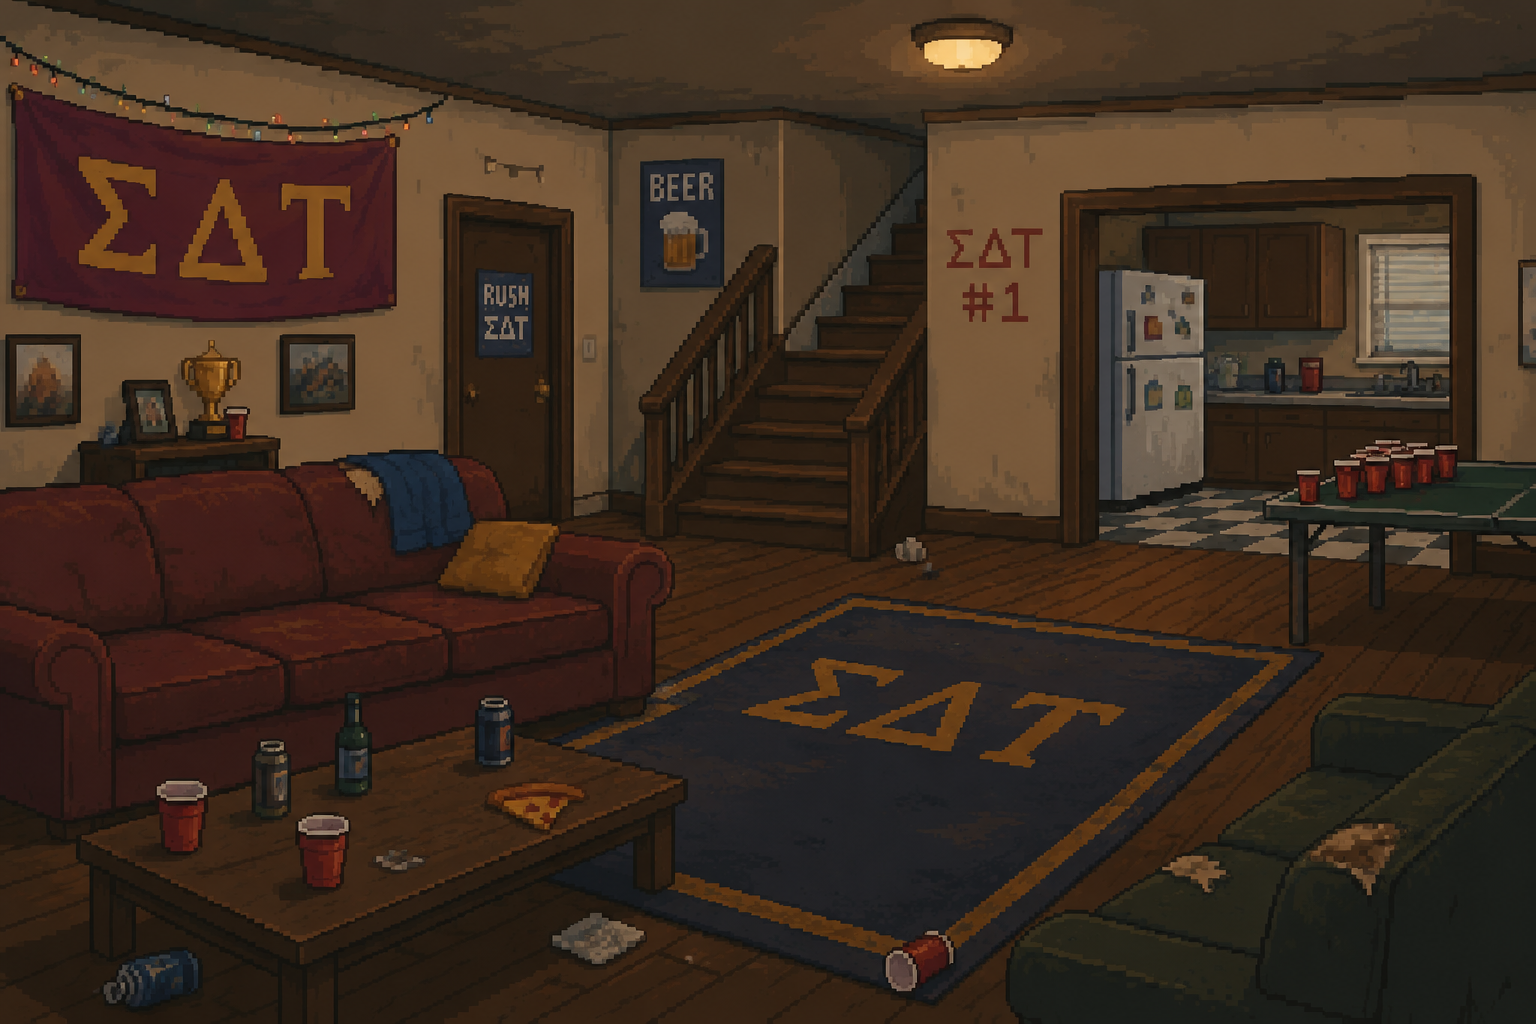
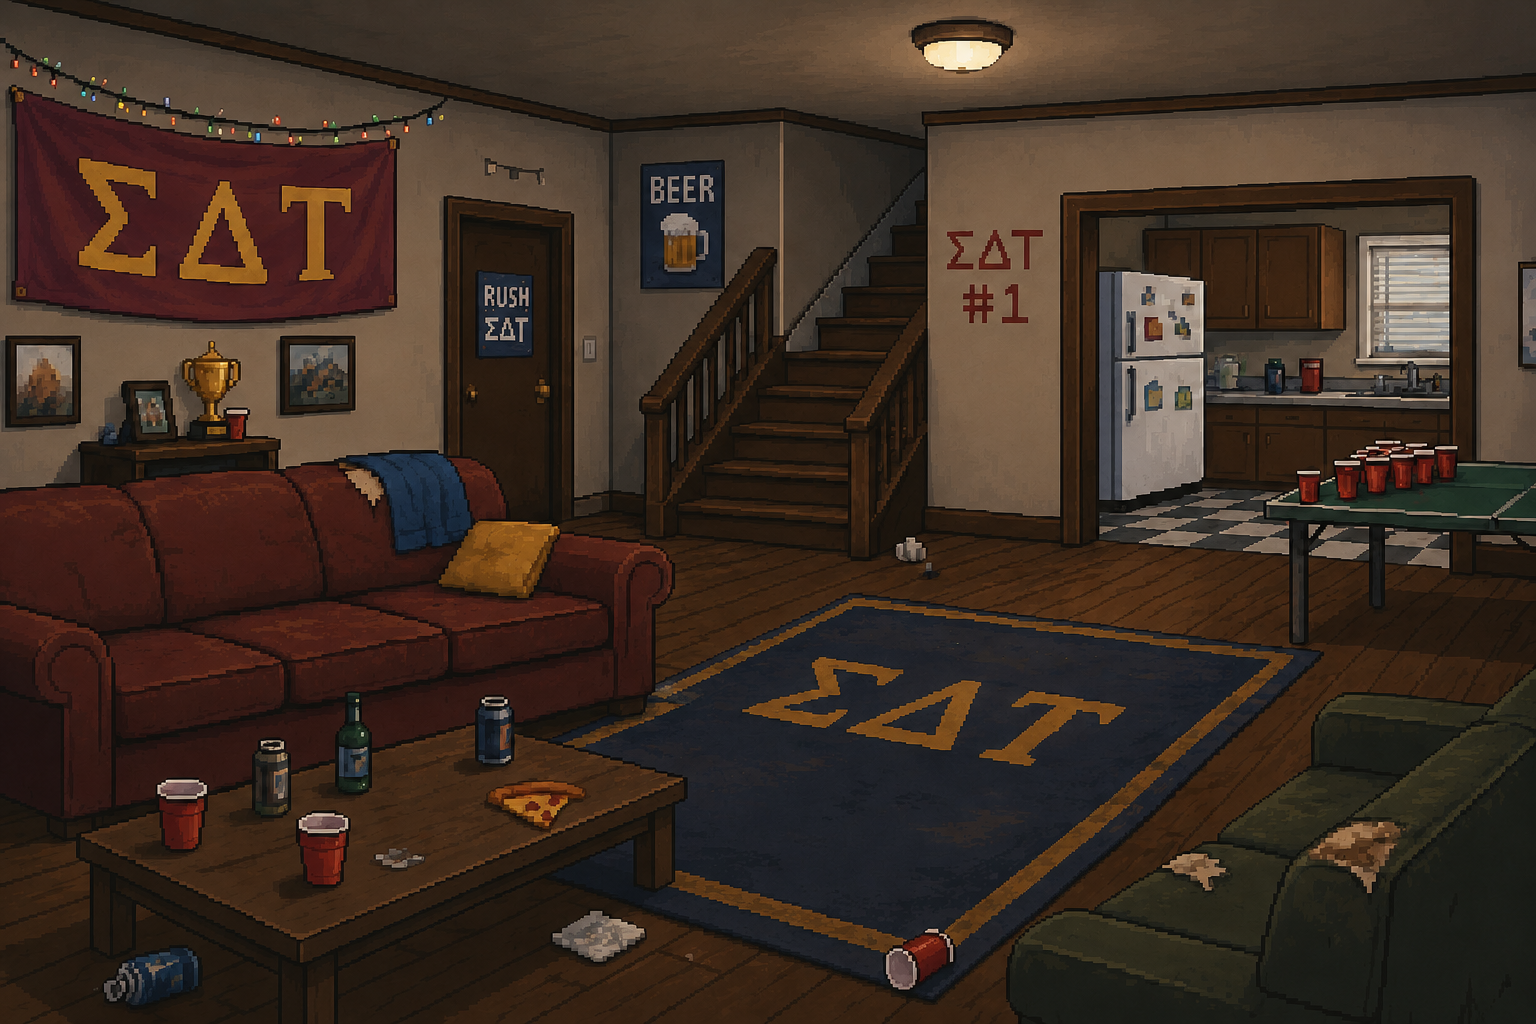
added item selection

diff --git a/game.java b/game.java
@@ -10,15 +10,19 @@ import java.awt.image.BufferedImage;
 import javax.swing.JPanel;
 import javax.imageio.ImageIO;
 import java.io.File;
+import java.util.Vector;
 
 public class game extends JPanel implements MouseListener, KeyListener {
+    static Items dialog;
     private Image image;
     static int anime = 0;
     static double anime_help = 0;
     static boolean fecha = false;
     static boolean hitting = false;
     static int add = 0;
-    private BufferedImage offscreen, sheet;
+    private BufferedImage offscreen;
+    public BufferedImage sheet;
+
     private Graphics2D offscreenG;
     static JFrame frame;
     static int x_cool_sqr, y_cool_sqr;
@@ -26,9 +30,10 @@ public class game extends JPanel implements MouseListener, KeyListener {
     static buffSystem buffSys;
     int sprite_col = 16, sprite_lin = 16;
     int option = 0;
+    public Vector<coisa> list = new Vector<coisa>();
 
     enum GameModes {
-        PLAY, SHOOT, EDIT, SETPOSITION;
+        PLAY, SHOOT, EDIT, SETPOSITION, ITEM_PANEL;
     }
 
     static final double gravity = 0.5;
@@ -46,9 +51,11 @@ public class game extends JPanel implements MouseListener, KeyListener {
 
     public game(String imagePath) {
         try {
-            sheet = ImageIO.read(new File("spritesheet/New Piskel(2).png"));
+            sheet = ImageIO.read(new File("spritesheet/New Piskel(2)(1).png"));
+            System.out.println("sheet loaded: " + sheet); // ✅ null or not?
         } catch (Exception e) {
             e.printStackTrace();
+            System.out.println("sheet FAILED to load"); // ❌ path wrong?
         }
         image = new ImageIcon(imagePath).getImage();
         addMouseListener(this);
@@ -67,8 +74,8 @@ public class game extends JPanel implements MouseListener, KeyListener {
 
             }
         }
-        lvl_map.add(new coisa(400, 300, 40, 0));
-        lvl_map.add(new coisa(700, 600, 40, 1));
+        // lvl_map.add(new coisa(400, 300, 40, 0));
+        // lvl_map.add(new coisa(700, 600, 40, 1));
 
         setVisible(true);
 
@@ -86,9 +93,10 @@ public class game extends JPanel implements MouseListener, KeyListener {
 
         w_frame = (int) Math.ceil(frame.getWidth() / 4.0);
         h_frame = (int) Math.ceil(frame.getHeight() / 4.0);
-
+        gaming.frame = frame;
         buffSys = new buffSystem();
         // buffSys.ApplyBuff(buffSystem.buffs.ICED, 10);
+        dialog = new Items(gaming);
         Timer timer = new Timer(16, e -> {
             buffSys.CheckDuration(buffSystem.buffs.SPEED_BOOST);
             gaming.update();
@@ -125,7 +133,8 @@ public class game extends JPanel implements MouseListener, KeyListener {
                 mode = GameModes.PLAY;
                 ball.enable_physics = true;
             } else if (mode == GameModes.EDIT) {
-                coisa newy = new coisa(x_input, y_input, 40, 0);
+                coisa newy = new coisa(x_input, y_input, 40, 1, gaming);
+
                 // buffSystem.buffs bu = buffSystem.buffs.SPEED_BOOST;
                 // buff newy = new buff(x_input, y_input, 40, buffSystem.buffs.SPEED_BOOST, 6);
 
@@ -218,23 +227,10 @@ public class game extends JPanel implements MouseListener, KeyListener {
                 (int) ball.getDiameter());
 
         // Draw obstacles
+
         for (coisa c : lvl_map) {
-
-            if ((c.buff && buffSys.HasBuff(((buff) c).buff_active)) || !c.bateu) {
-                g.drawImage(
-                        sheet,
-                        c.x - c.diametro / 2,
-                        c.y - c.diametro / 2,
-                        c.x + c.diametro / 2,
-                        c.y + c.diametro / 2,
-
-                        (0 + anime) * sprite_col, // column
-                        (0 + c.id) * sprite_lin, // row (do NOT add option!)
-                        (0 + anime) * sprite_col + sprite_col,
-                        (0 + c.id) * sprite_lin + sprite_lin,
-
-                        null);
-            }
+            System.out.println("Thie id is" + c.id);
+            c.local.repaint();
         }
 
         // Draw transparent buffer over background
@@ -281,6 +277,9 @@ public class game extends JPanel implements MouseListener, KeyListener {
         } else if (e.getKeyChar() == 'r') {
             mode = GameModes.SETPOSITION;
             ball.enable_physics = false;
+        } else if (e.getKeyChar() == 'y') {
+            mode = GameModes.ITEM_PANEL;
+            dialog.dialog_init();
         }
     }
 

diff --git a/Items.java b/Items.java
@@ -1,0 +1,99 @@
+import javax.swing.*;
+import java.awt.*;
+import java.awt.event.MouseListener;
+import java.awt.event.MouseEvent;
+import java.util.HashMap;
+import java.util.Map;
+
+public class Items implements MouseListener {
+  game current;
+  JDialog dialog;
+  boolean active;
+  JPanel panel;
+  int numero = 2;
+  private Map<JButton, coisa> list = new HashMap<>();
+
+  Items(game current) {
+    this.current = current;
+    this.active = false;
+  }
+
+  void dialog_init() {
+    active = true;
+    list.clear();
+
+    for (int i = 0; i < 4; i++) {
+      int r;
+      do {
+        r = (int) (Math.random() * 7);
+      } while (r == 0 || r == 3 || r == 4);
+
+      coisa c;
+      if (r < 3) {
+        c = new coisa(60 * i + 40, 80, 40, r, current);
+      } else {
+        c = new buff(60 * i + 40, 80, 40, buffSystem.returnBuff(r), r, current);
+      }
+      list.put(c.local, c);
+      c.local.addMouseListener(this);
+    }
+
+    panel = new JPanel() {
+      Image img = new ImageIcon("Dialog.png").getImage();
+
+      @Override
+      protected void paintComponent(Graphics g) {
+        super.paintComponent(g);
+        g.drawImage(img, 0, 0, getWidth(), getHeight(), this); // ✅ background only
+      }
+    };
+    panel.setOpaque(false);
+    panel.setLayout(null); // ✅ required for setBounds
+
+    for (JButton btn : list.keySet()) {
+      panel.add(btn); // ✅ add buttons here, not in paintComponent
+    }
+
+    dialog = new JDialog(current.frame, "Choose Your Item", true);
+    dialog.setUndecorated(true);
+    dialog.setBackground(new Color(0, 0, 0, 0));
+    dialog.setAlwaysOnTop(true);
+    dialog.setDefaultCloseOperation(JDialog.DISPOSE_ON_CLOSE);
+    dialog.setSize(300, 200);
+    dialog.setLocationRelativeTo(current.frame);
+    dialog.setContentPane(panel);
+    dialog.setVisible(true);
+  }
+
+  @Override
+  public void mouseClicked(MouseEvent e) {
+    JButton clicked = (JButton) e.getSource();
+    coisa chosen = list.get(clicked);
+    if (chosen != null) {
+      current.list.add(chosen);
+      panel.remove(clicked);
+      list.remove(clicked);
+      panel.repaint();
+      numero--;
+      if (numero == 0) {
+        dialog.dispose();
+      }
+    }
+  }
+
+  @Override
+  public void mousePressed(MouseEvent e) {
+  }
+
+  @Override
+  public void mouseReleased(MouseEvent e) {
+  }
+
+  @Override
+  public void mouseEntered(MouseEvent e) {
+  }
+
+  @Override
+  public void mouseExited(MouseEvent e) {
+  }
+}

diff --git a/coisa.java b/coisa.java
@@ -9,15 +9,40 @@ public class coisa extends Rectangle {
   public int x, y, diametro;
   public boolean bateu = false;
   public boolean buff = false;
+  game current;
   int id;
+  public JButton local;
+  coisa self;
 
-  public coisa(int x, int y, int diametro, int id) {
+  public coisa(int x, int y, int diametro, int id, game current) {
     super(x - diametro / 2, y - diametro / 2, diametro, diametro);
     this.id = id;
     this.diametro = diametro;
     this.x = x;
     this.y = y;
-  };
+    this.current = current;
+    self = this;
+
+    local = new JButton() {
+      @Override
+      protected void paintComponent(Graphics g) {
+        g.drawImage(
+            current.sheet,
+            0, 0, (int) getWidth(), (int) getHeight(), // ✅ 0,0 not x,y
+            current.anime * current.sprite_col,
+            id * current.sprite_lin,
+            current.anime * current.sprite_col + current.sprite_col,
+            id * current.sprite_lin + current.sprite_lin,
+            null);
+      }
+    };
+
+    local.setOpaque(false);
+    local.setContentAreaFilled(false);
+    local.setBorderPainted(false);
+    local.setBounds(x - diametro / 2, y - diametro / 2, diametro, diametro); // ✅ position + size
+    current.add(local);
+  }
 
   public int getId() {
     return id;
@@ -32,7 +57,7 @@ public class coisa extends Rectangle {
         && (bola.bateuX == false || bola.bateuY == false)) {
 
       bola.bounce(this);
-      if (id == 1) {
+      if (id == 3) {
         game.fecha = true;
       }
       game.hitting = true;

diff --git a/inicial.java b/inicial.java
@@ -1,0 +1,43 @@
+
+import javax.swing.*;
+import java.awt.*;
+import java.awt.event.*;
+import java.util.ArrayList;
+import java.math.*;
+import java.awt.image.BufferedImage;
+import java.awt.Graphics;
+import java.awt.Image;
+import java.awt.image.BufferedImage;
+import javax.swing.JPanel;
+import javax.imageio.ImageIO;
+import java.io.File;
+
+public class inicial extends JPanel implements MouseListener, ActionListener {
+
+  @Override
+  public void actionPerformed(ActionEvent e) {
+
+  }
+
+  @Override
+  public void mouseClicked(MouseEvent e) {
+
+  }
+
+  @Override
+  public void mousePressed(MouseEvent e) {
+  }
+
+  @Override
+  public void mouseReleased(MouseEvent e) {
+  }
+
+  @Override
+  public void mouseEntered(MouseEvent e) {
+  }
+
+  @Override
+  public void mouseExited(MouseEvent e) {
+  }
+
+}

diff --git a/buff.java b/buff.java
@@ -1,3 +1,4 @@
+
 import javax.swing.*;
 import java.awt.*;
 import java.awt.event.*;
@@ -8,9 +9,10 @@ import java.awt.geom.*;
 class buff extends coisa {
 
   public buffSystem.buffs buff_active;
+  public game current;
 
-  public buff(int x, int y, int diametro, buffSystem.buffs buff, int id) {
-    super(x, y, diametro, id);
+  public buff(int x, int y, int diametro, buffSystem.buffs buff, int id, game current) {
+    super(x, y, diametro, id, current);
     this.buff_active = buff;
     this.buff = true;
   };

diff --git a/buffSystem.java b/buffSystem.java
@@ -23,6 +23,17 @@ public class buffSystem {
         any_buff_active = true;
     }
 
+    static buffs returnBuff(int choice) {
+        switch (choice) {
+            case 5:
+                return buffs.ICED;
+
+            case 6:
+                return buffs.SPEED_BOOST;
+        }
+        return buffs.SPEED_BOOST;
+    }
+
     void DecrementBuffTimers() {
         if (any_buff_active) {
             boolean cont = false;

diff --git a/ball.java b/ball.java
@@ -1,3 +1,4 @@
+
 import java.awt.Shape;
 import java.awt.Rectangle;
 import java.awt.geom.*;
